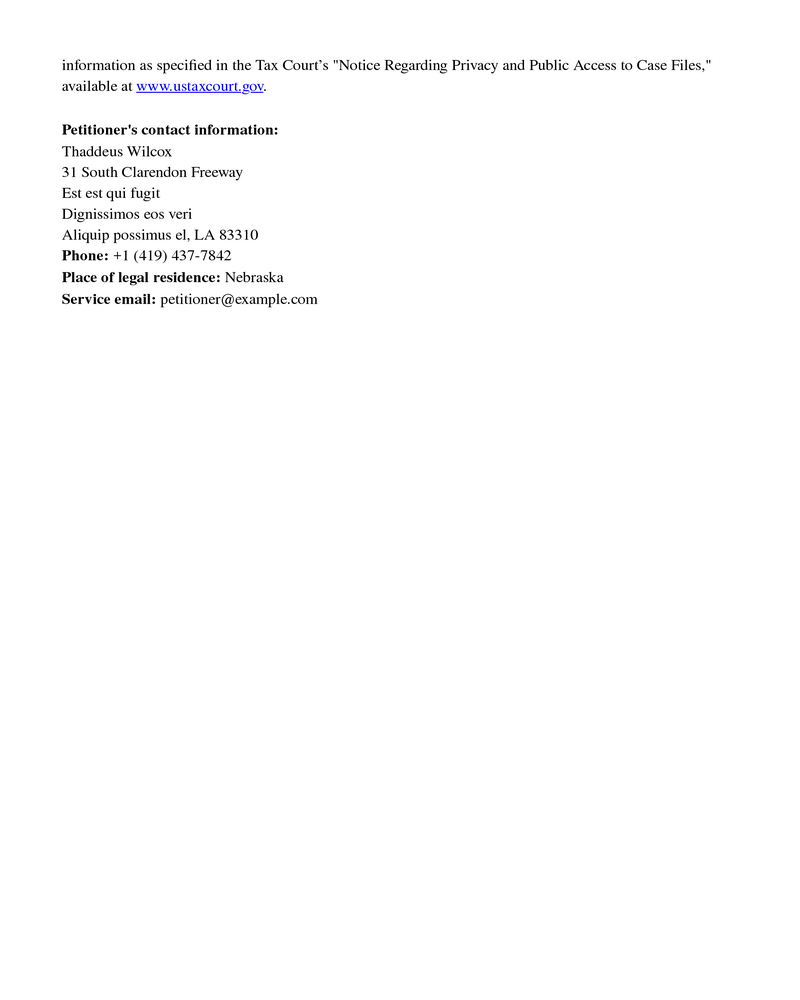
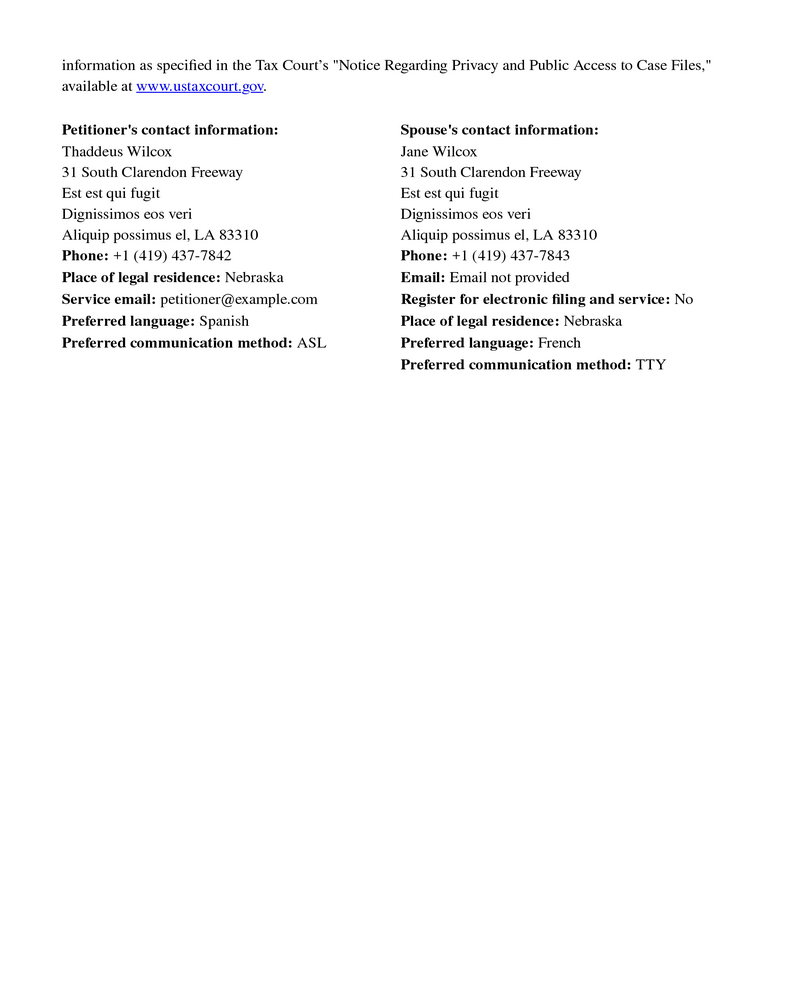
9244: added test for new petition fields

Changed region(s): [[0.5, 0.124, 0.875, 0.372], [0.0625, 0.31, 0.4062, 0.372]]

diff --git a/cypress/local-only/tests/integration/fileAPetitionUpdated/file-a-petition-step-1-myself-and-my-spouse.cy.ts b/cypress/local-only/tests/integration/fileAPetitionUpdated/file-a-petition-step-1-myself-and-my-spouse.cy.ts
@@ -199,6 +199,15 @@ describe('File a petition: Step 1 - Petitioner Information', () => {
           );
         });
 
+        it('should not display preferred language and communication method fields for deceased spouse', () => {
+          cy.get(
+            '[data-testid="contact-secondary-preferred-language"]',
+          ).should('not.exist');
+          cy.get(
+            '[data-testid="contact-secondary-preferred-communication-method"]',
+          ).should('not.exist');
+        });
+
         it('should allow user to go to step 3 if everything is filled out correctly', () => {
           const ERROR_MESSAGES_DATA_TEST_ID: InputFillType[] = [
             {
@@ -278,6 +287,39 @@ describe('File a petition: Step 1 - Petitioner Information', () => {
           });
 
           cy.get('[data-testid="is-spouse-deceased-1"]').click();
+        });
+
+        it('should allow input into preferred language and communication method fields for primary contact', () => {
+          cy.get('[data-testid="contact-primary-preferred-language"]').type(
+            'Spanish',
+          );
+          cy.get('[data-testid="contact-primary-preferred-language"]').should(
+            'have.value',
+            'Spanish',
+          );
+          cy.get(
+            '[data-testid="contact-primary-preferred-communication-method"]',
+          ).type('ASL');
+          cy.get(
+            '[data-testid="contact-primary-preferred-communication-method"]',
+          ).should('have.value', 'ASL');
+        });
+
+        it('should allow input into preferred language and communication method fields for spouse', () => {
+          cy.get('[data-testid="have-spouse-consent-label"]').click();
+          cy.get('[data-testid="contact-secondary-preferred-language"]').type(
+            'French',
+          );
+          cy.get('[data-testid="contact-secondary-preferred-language"]').should(
+            'have.value',
+            'French',
+          );
+          cy.get(
+            '[data-testid="contact-secondary-preferred-communication-method"]',
+          ).type('TTY');
+          cy.get(
+            '[data-testid="contact-secondary-preferred-communication-method"]',
+          ).should('have.value', 'TTY');
         });
 
         it('should display error validation messages if Spouse is Deceased form is empty', () => {
@@ -503,7 +545,7 @@ describe('File a petition: Step 1 - Petitioner Information', () => {
       cy.get('[data-testid="filing-type-1"').click();
     });
 
-    describe('Petitioner and spouse', () => {
+      describe('Petitioner and spouse', () => {
       it('should display correct spouse header', () => {
         cy.get('[data-testid="spouse-header"]').should(
           'have.text',
@@ -516,6 +558,37 @@ describe('File a petition: Step 1 - Petitioner Information', () => {
           'have.text',
           'Is the petitioner spouse deceased?',
         );
+      });
+
+      it('should allow input into preferred language and communication method fields for practitioner', () => {
+        cy.get('[data-testid="contact-primary-preferred-language"]').type(
+          'Spanish',
+        );
+        cy.get('[data-testid="contact-primary-preferred-language"]').should(
+          'have.value',
+          'Spanish',
+        );
+        cy.get(
+          '[data-testid="contact-primary-preferred-communication-method"]',
+        ).type('ASL');
+        cy.get(
+          '[data-testid="contact-primary-preferred-communication-method"]',
+        ).should('have.value', 'ASL');
+
+        cy.get('[data-testid="is-spouse-deceased-1"]').click();
+        cy.get('[data-testid="contact-secondary-preferred-language"]').type(
+          'French',
+        );
+        cy.get('[data-testid="contact-secondary-preferred-language"]').should(
+          'have.value',
+          'French',
+        );
+        cy.get(
+          '[data-testid="contact-secondary-preferred-communication-method"]',
+        ).type('TTY');
+        cy.get(
+          '[data-testid="contact-secondary-preferred-communication-method"]',
+        ).should('have.value', 'TTY');
       });
       describe('Spouse is not deceased', () => {
         beforeEach(() => {

diff --git a/cypress/local-only/tests/integration/fileAPetitionUpdated/file-a-petition-step-6-petitioner-info-myself-and-spouse.cy.ts b/cypress/local-only/tests/integration/fileAPetitionUpdated/file-a-petition-step-6-petitioner-info-myself-and-spouse.cy.ts
@@ -137,6 +137,53 @@ describe('File a petition - Step 6 Review & Submit Case', () => {
         cy.get('[data-testid="register-for-e-filing"]').should('exist');
       });
 
+      it('should display preferred language and communication method on Step 6 review when filled in', () => {
+        cy.get('[data-testid="is-spouse-deceased-1"]').click();
+        cy.get('[data-testid="have-spouse-consent-label"]').click();
+        cy.get('[data-testid="contact-secondary-name"]').should('be.visible');
+        fillPrimaryContact();
+        cy.get('[data-testid="contact-secondary-name"]').type(
+          secondaryContactInfo.name,
+        );
+        fillSecondaryContact();
+
+        cy.get('[data-testid="contact-primary-preferred-language"]').type(
+          'Spanish',
+        );
+        cy.get(
+          '[data-testid="contact-primary-preferred-communication-method"]',
+        ).type('ASL');
+        cy.get('[data-testid="contact-secondary-preferred-language"]').type(
+          'French',
+        );
+        cy.get(
+          '[data-testid="contact-secondary-preferred-communication-method"]',
+        ).type('TTY');
+        cy.get('[data-testid="step-1-next-button"]').click();
+        cy.get('[data-testid="step-indicator-current-step-2-icon"]');
+
+        fillPetitionFileInformation(VALID_FILE);
+        fillIrsNoticeInformation(VALID_FILE);
+        fillCaseProcedureInformation();
+        fillStinInformation(VALID_FILE);
+
+        cy.get('[data-testid="primary-preferred-language"]').should(
+          'contain.text',
+          'Spanish',
+        );
+        cy.get('[data-testid="primary-preferred-communication-method"]').should(
+          'contain.text',
+          'ASL',
+        );
+        cy.get('[data-testid="secondary-preferred-language"]').should(
+          'contain.text',
+          'French',
+        );
+        cy.get(
+          '[data-testid="secondary-preferred-communication-method"]',
+        ).should('contain.text', 'TTY');
+      });
+
       it('should display petitioner information correctly when user does not select use same address', () => {
         cy.get('[data-testid="is-spouse-deceased-0"]').click();
 

diff --git a/cypress/local-only/tests/integration/fileAPetitionUpdated/file-a-petition-step-1-myself.cy.ts b/cypress/local-only/tests/integration/fileAPetitionUpdated/file-a-petition-step-1-myself.cy.ts
@@ -177,6 +177,22 @@ describe('File a petition: Step 1 - Petitioner Information', () => {
         cy.get('[data-testid="step-1-next-button"]').click();
         cy.get('[data-testid="step-indicator-current-step-2-icon"]');
       });
+
+      it('should allow input into preferred language and communication method fields', () => {
+        cy.get('[data-testid="contact-primary-preferred-language"]').type(
+          'Spanish',
+        );
+        cy.get('[data-testid="contact-primary-preferred-language"]').should(
+          'have.value',
+          'Spanish',
+        );
+        cy.get(
+          '[data-testid="contact-primary-preferred-communication-method"]',
+        ).type('ASL');
+        cy.get(
+          '[data-testid="contact-primary-preferred-communication-method"]',
+        ).should('have.value', 'ASL');
+      });
     });
   });
 
@@ -212,6 +228,23 @@ describe('File a petition: Step 1 - Petitioner Information', () => {
         cy.get('[data-testid="contact-primary-paper-petition-email"]').should(
           'exist',
         );
+      });
+
+      it('should allow input into preferred language and communication method fields for practitioner', () => {
+        cy.get('[data-testid="filing-type-0"]').click();
+        cy.get('[data-testid="contact-primary-preferred-language"]').type(
+          'Spanish',
+        );
+        cy.get('[data-testid="contact-primary-preferred-language"]').should(
+          'have.value',
+          'Spanish',
+        );
+        cy.get(
+          '[data-testid="contact-primary-preferred-communication-method"]',
+        ).type('ASL');
+        cy.get(
+          '[data-testid="contact-primary-preferred-communication-method"]',
+        ).should('have.value', 'ASL');
       });
     });
   });

diff --git a/shared/src/business/utilities/documentGenerators/petition.test.ts b/shared/src/business/utilities/documentGenerators/petition.test.ts
@@ -26,6 +26,8 @@ describe('generated petition', () => {
             phone: '+1 (419) 437-7842',
             placeOfLegalResidence: 'NE',
             postalCode: '83310',
+            preferredLanguage: 'Spanish',
+            preferredCommunicationMethod: 'ASL',
             state: 'LA',
           },
           contactSecondary: undefined,
@@ -76,9 +78,26 @@ describe('generated petition', () => {
             phone: '+1 (419) 437-7842',
             placeOfLegalResidence: 'NE',
             postalCode: '83310',
+            preferredLanguage: 'Spanish',
+            preferredCommunicationMethod: 'ASL',
             state: 'LA',
           },
-          contactSecondary: undefined,
+          contactSecondary: {
+            address1: '31 South Clarendon Freeway',
+            address2: 'Est est qui fugit ',
+            address3: 'Dignissimos eos veri',
+            city: 'Aliquip possimus el',
+            contactType: 'secondary',
+            countryType: 'domestic',
+            email: 'spouse@example.com',
+            name: 'Jane Wilcox',
+            phone: '+1 (419) 437-7843',
+            placeOfLegalResidence: 'NE',
+            postalCode: '83310',
+            preferredLanguage: 'French',
+            preferredCommunicationMethod: 'TTY',
+            state: 'LA',
+          },
           hasUploadedIrsNotice: false,
           irsNotices: [
             {
@@ -100,6 +119,6 @@ describe('generated petition', () => {
           procedureType: 'Regular',
         },
       }),
-    testDescription: 'generates a petition',
+    testDescription: 'generates a petition with language and communication fields for primary and secondary contacts',
   });
 });

diff --git a/shared/src/business/entities/contacts/ContactUpdated.test.ts b/shared/src/business/entities/contacts/ContactUpdated.test.ts
@@ -495,4 +495,38 @@ describe('ContactUpdated', () => {
       });
     });
   });
+
+  describe('optional fields', () => {
+    describe('preferredLanguage', () => {
+      it('should populate preferredLanguage field', () => {
+        const entity = new ContactUpdated(
+          {
+            ...VALID_ENTITY,
+            preferredLanguage: 'Spanish',
+          },
+          CONTACT_NAME,
+          PETITION_TYPE,
+          PARTY_TYPE,
+        );
+
+        expect(entity.preferredLanguage).toEqual('Spanish');
+      });
+    });
+
+    describe('preferredCommunicationMethod', () => {
+      it('should populate preferredCommunicationMethod field', () => {
+        const entity = new ContactUpdated(
+          {
+            ...VALID_ENTITY,
+            preferredCommunicationMethod: 'ASL',
+          },
+          CONTACT_NAME,
+          PETITION_TYPE,
+          PARTY_TYPE,
+        );
+
+        expect(entity.preferredCommunicationMethod).toEqual('ASL');
+      });
+    });
+  });
 });

diff --git a/shared/src/business/entities/contacts/Contact.test.ts b/shared/src/business/entities/contacts/Contact.test.ts
@@ -31,4 +31,32 @@ describe('Contact', () => {
       expect(contact.getFormattedValidationErrors()?.email).toEqual(undefined);
     });
   });
+
+  describe('preferredLanguage', () => {
+    it('should populate preferredLanguage field', () => {
+      const contact = new Contact(
+        {
+          ...MOCK_CONTACT_PRIMARY,
+          preferredLanguage: 'Spanish',
+        },
+        'PetitionerPrimaryContact',
+      );
+
+      expect(contact.preferredLanguage).toEqual('Spanish');
+    });
+  });
+
+  describe('preferredCommunicationMethod', () => {
+    it('should populate preferredCommunicationMethod field', () => {
+      const contact = new Contact(
+        {
+          ...MOCK_CONTACT_PRIMARY,
+          preferredCommunicationMethod: 'ASL',
+        },
+        'PetitionerPrimaryContact',
+      );
+
+      expect(contact.preferredCommunicationMethod).toEqual('ASL');
+    });
+  });
 });

diff --git a/shared/src/business/entities/contacts/Petitioner.test.ts b/shared/src/business/entities/contacts/Petitioner.test.ts
@@ -109,5 +109,23 @@ describe('Petitioner', () => {
 
       expect(entity.hasConsentedToElectronicService).toBeFalsy();
     });
+
+    it('should populate preferredLanguage field', () => {
+      const entity = new Petitioner({
+        ...mockValidPetitioner,
+        preferredLanguage: 'Spanish',
+      });
+
+      expect(entity.preferredLanguage).toEqual('Spanish');
+    });
+
+    it('should populate preferredCommunicationMethod field', () => {
+      const entity = new Petitioner({
+        ...mockValidPetitioner,
+        preferredCommunicationMethod: 'ASL',
+      });
+
+      expect(entity.preferredCommunicationMethod).toEqual('ASL');
+    });
   });
 });
